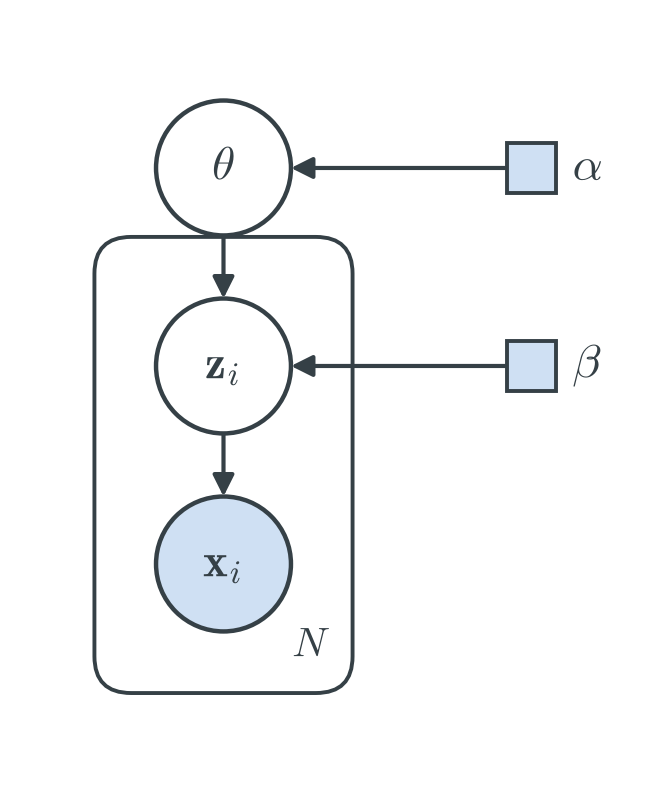
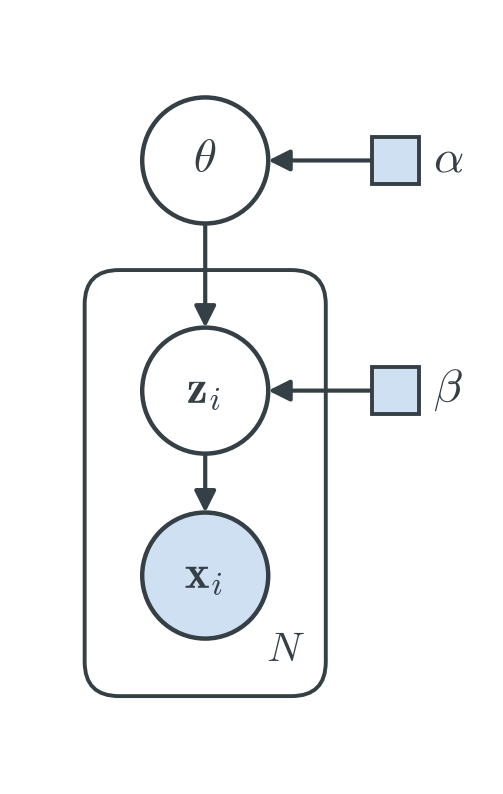
Lecture 4: keep outside nodes clear of the plates

Changed region(s): [[0.1193, 0.1209, 0.9245, 0.8766], [0.1491, 0.3023, 0.1789, 0.3325]]

diff --git a/scripts/figures_lec4.py b/scripts/figures_lec4.py
@@ -11,6 +11,7 @@ OBSERVED = "#cfe0f3"
 R = .46           # node radius
 R_SQ = .17        # half-side of a hyperparameter square
 PAD = .42         # padding between a plate and the nodes it holds
+GAP = .34         # clearance between a plate and what sits outside it
 FS = 17           # label size
 
 plt.rcParams.update({"text.color": GREY, "mathtext.fontset": "cm"})
@@ -95,17 +96,19 @@ def unrolled():
 def plated(hyper=False):
     """The same model in plate notation, optionally with hyperparameters."""
     fig, ax = figure(3.6 if not hyper else 4.6, 3.8)
-    node(ax, (0, 2.7), r"$\theta$")
-    plate(ax, [box((0, 1.35)), box((0, 0))], "$N$")
+    observations = plate(ax, [box((0, 1.35)), box((0, 0))], "$N$")
+    theta = (0, observations[3] + GAP + R)
+    node(ax, theta, r"$\theta$")
     node(ax, (0, 1.35), r"$\mathbf{z}_i$")
     node(ax, (0, 0), r"$\mathbf{x}_i$", observed=True)
-    arrow(ax, (0, 2.7), (0, 1.35))
+    arrow(ax, theta, (0, 1.35))
     arrow(ax, (0, 1.35), (0, 0))
     if hyper:
-        square(ax, (2.1, 2.7), r"$\alpha$")
-        arrow(ax, (2.1, 2.7), (0, 2.7), r_start=R_SQ)
-        square(ax, (2.1, 1.35), r"$\beta$")
-        arrow(ax, (2.1, 1.35), (0, 1.35), r_start=R_SQ)
+        right = observations[2] + GAP + R_SQ
+        square(ax, (right, theta[1]), r"$\alpha$")
+        arrow(ax, (right, theta[1]), theta, r_start=R_SQ)
+        square(ax, (right, 1.35), r"$\beta$")
+        arrow(ax, (right, 1.35), (0, 1.35), r_start=R_SQ)
     save(fig, ax, "figures/lec4/lvm-plate%s.png" % ("-hyper" if hyper else ""))
 
 
@@ -124,14 +127,14 @@ def ppca():
 def mixture():
     """Gaussian mixture: weights pi, components (mu_k, sigma_k^2)."""
     fig, ax = figure(5.8, 4.6)
-    node(ax, (0, 3.3), r"$\boldsymbol{\pi}$")
-    square(ax, (2.3, 3.3), r"$\alpha$")
-    arrow(ax, (2.3, 3.3), (0, 3.3), r_start=R_SQ)
-
-    plate(ax, [box((0, 2.0)), box((0, .7))], "$N$")
+    observations = plate(ax, [box((0, 2.0)), box((0, .7))], "$N$")
+    pi = (0, observations[3] + GAP + R)
+    node(ax, pi, r"$\boldsymbol{\pi}$")
+    square(ax, (observations[2] + GAP + R_SQ + .5, pi[1]), r"$\alpha$")
+    arrow(ax, (observations[2] + GAP + R_SQ + .5, pi[1]), pi, r_start=R_SQ)
     node(ax, (0, 2.0), r"$z_i$")
     node(ax, (0, .7), r"$\mathbf{x}_i$", observed=True)
-    arrow(ax, (0, 3.3), (0, 2.0))
+    arrow(ax, pi, (0, 2.0))
     arrow(ax, (0, 2.0), (0, .7))
 
     plate(ax, [box((-.9, -1.5)), box((.9, -1.5))], "$K$")
